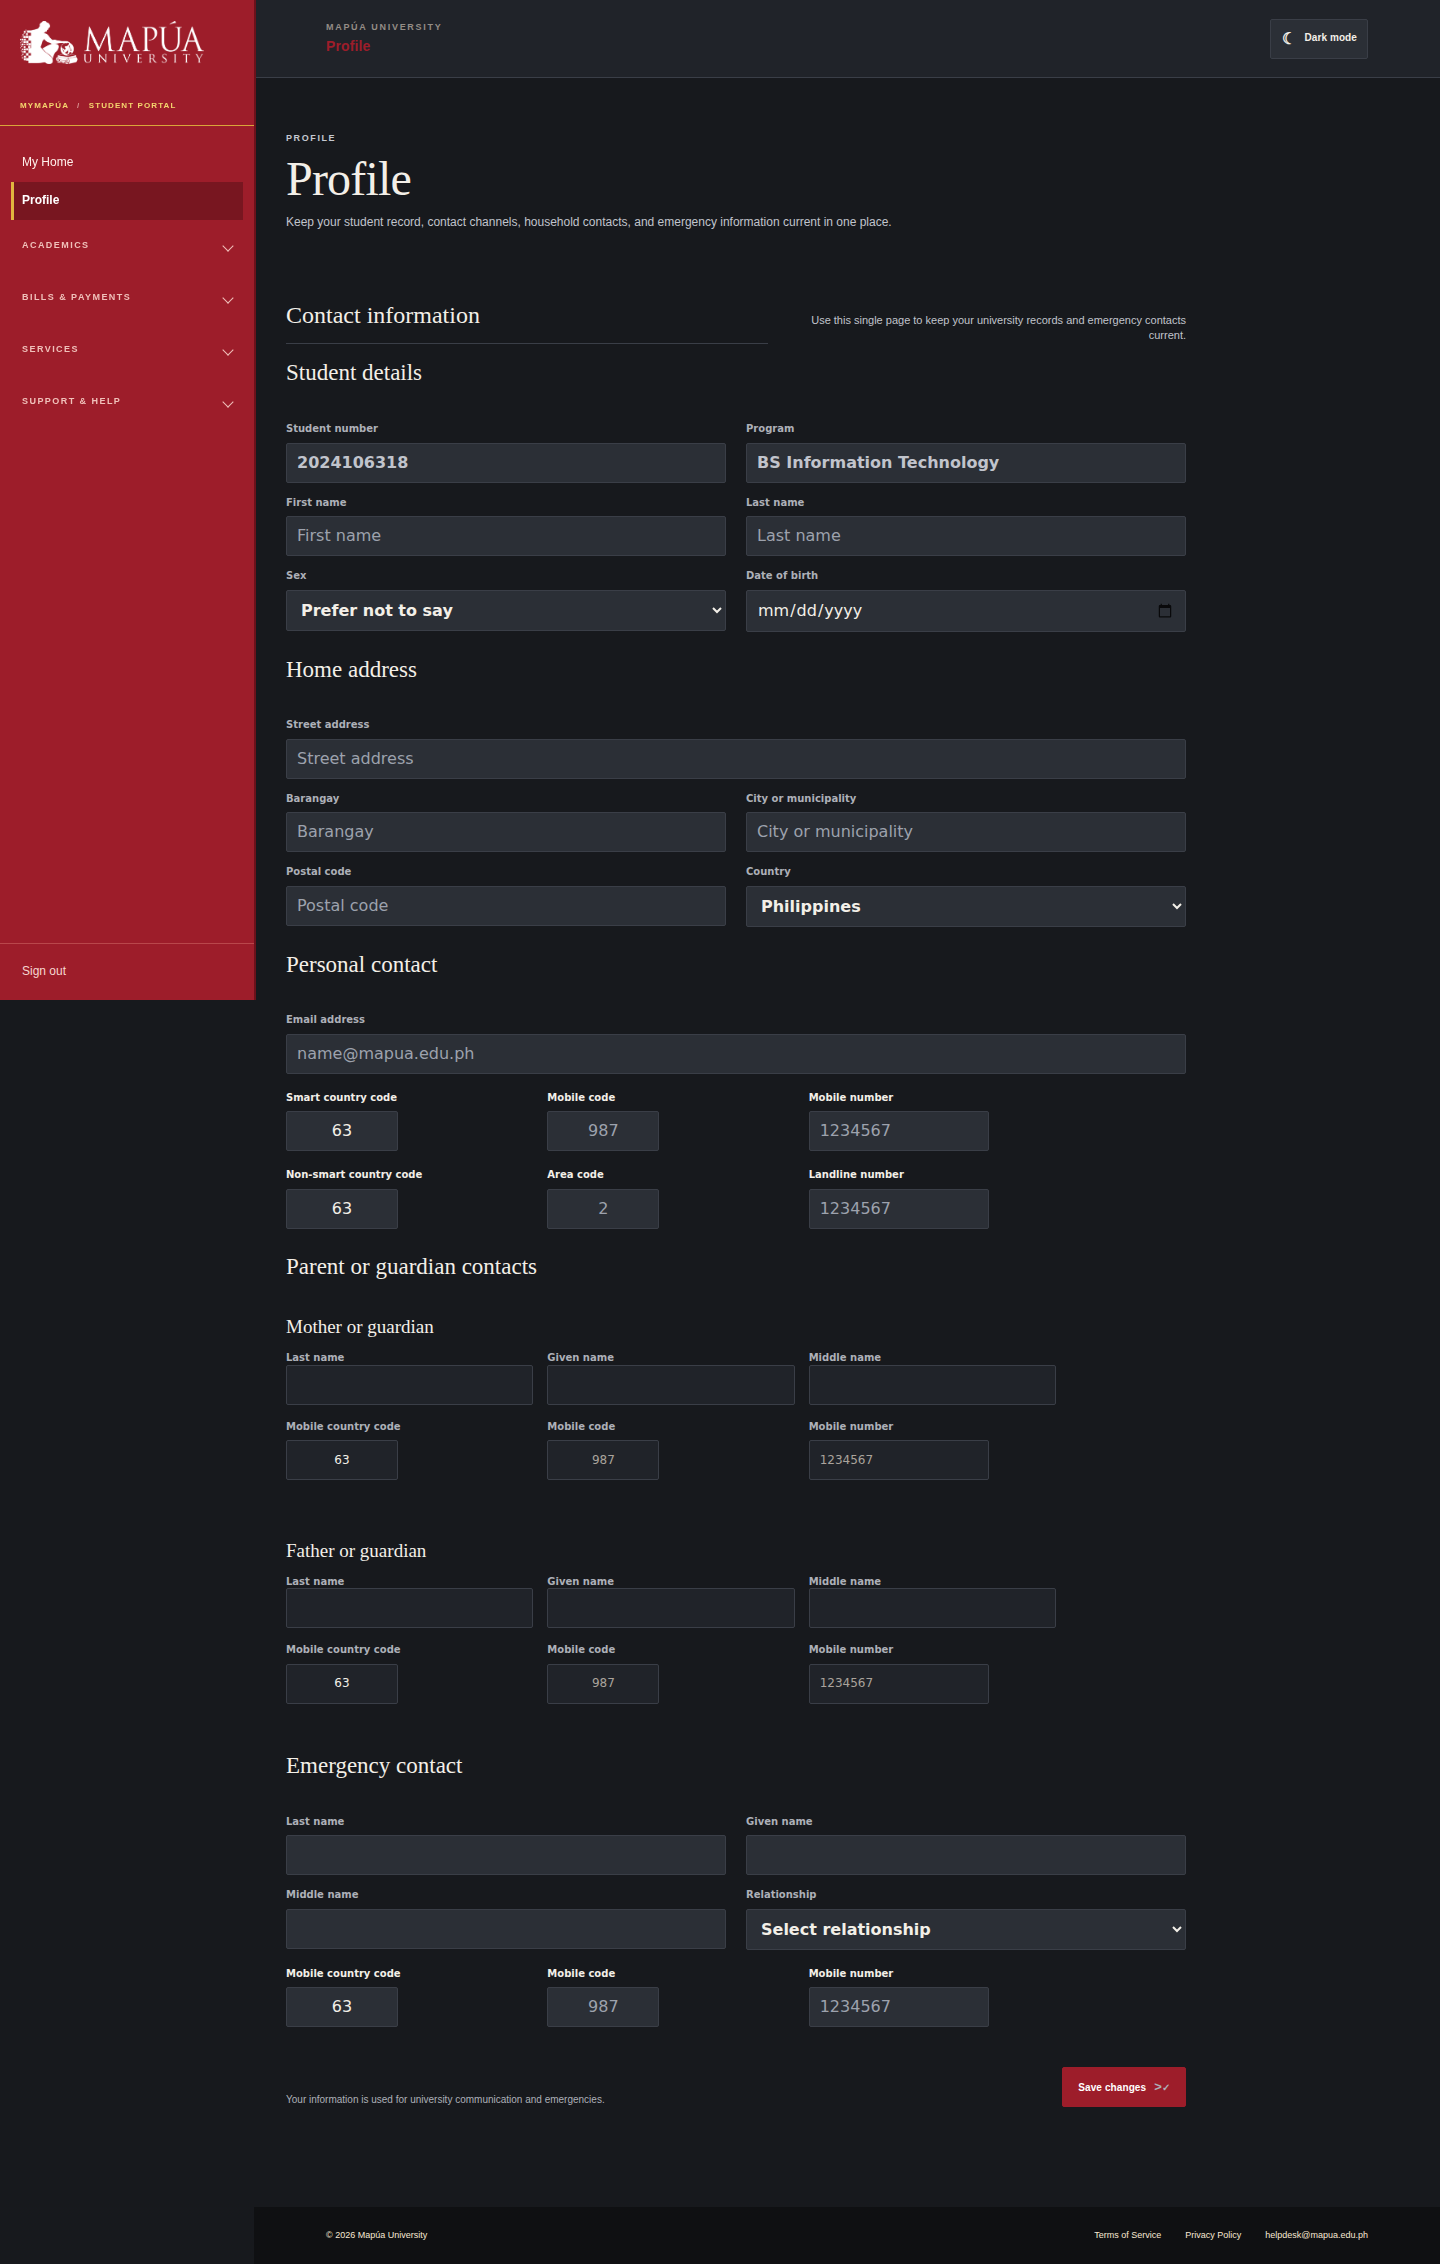
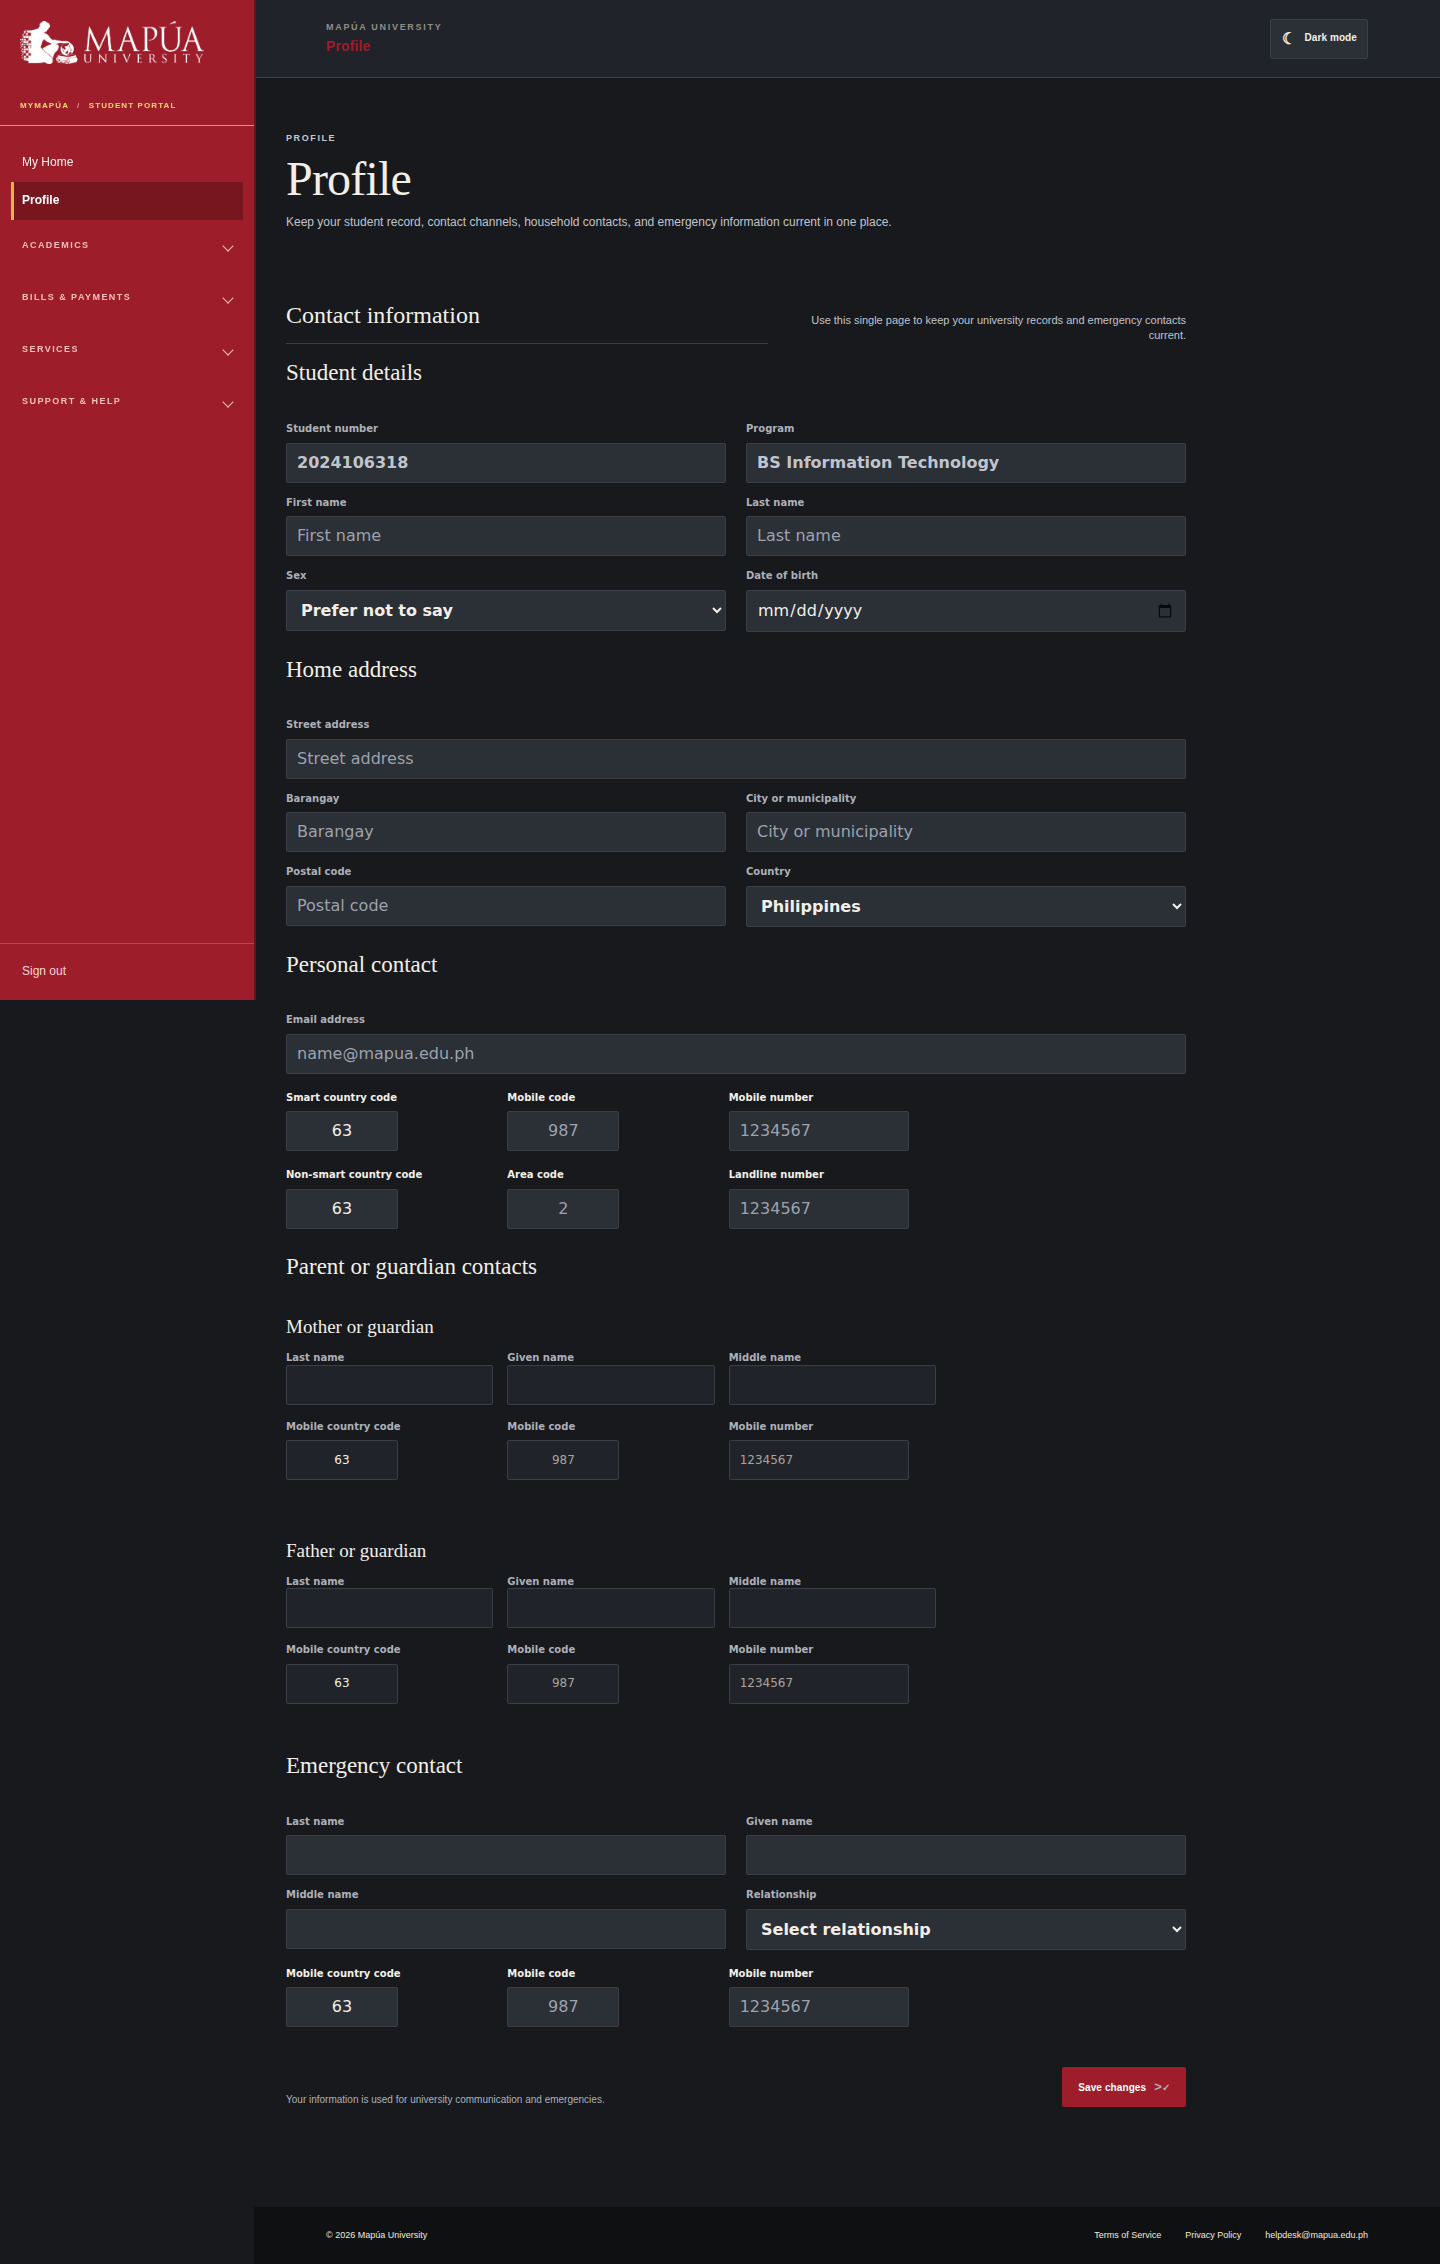
tighten repeated contact fields

diff --git a/styles.css b/styles.css
@@ -1656,7 +1656,7 @@ html[data-theme="dark"] .content .announcement-item h3 {
 @media (min-width: 801px) {
 	.content .contact-form .name-grid,
 	.content .contact-form .phone-grid {
-		width: min(100%, 770px);
+		width: min(100%, 650px);
 	}
 }
 
